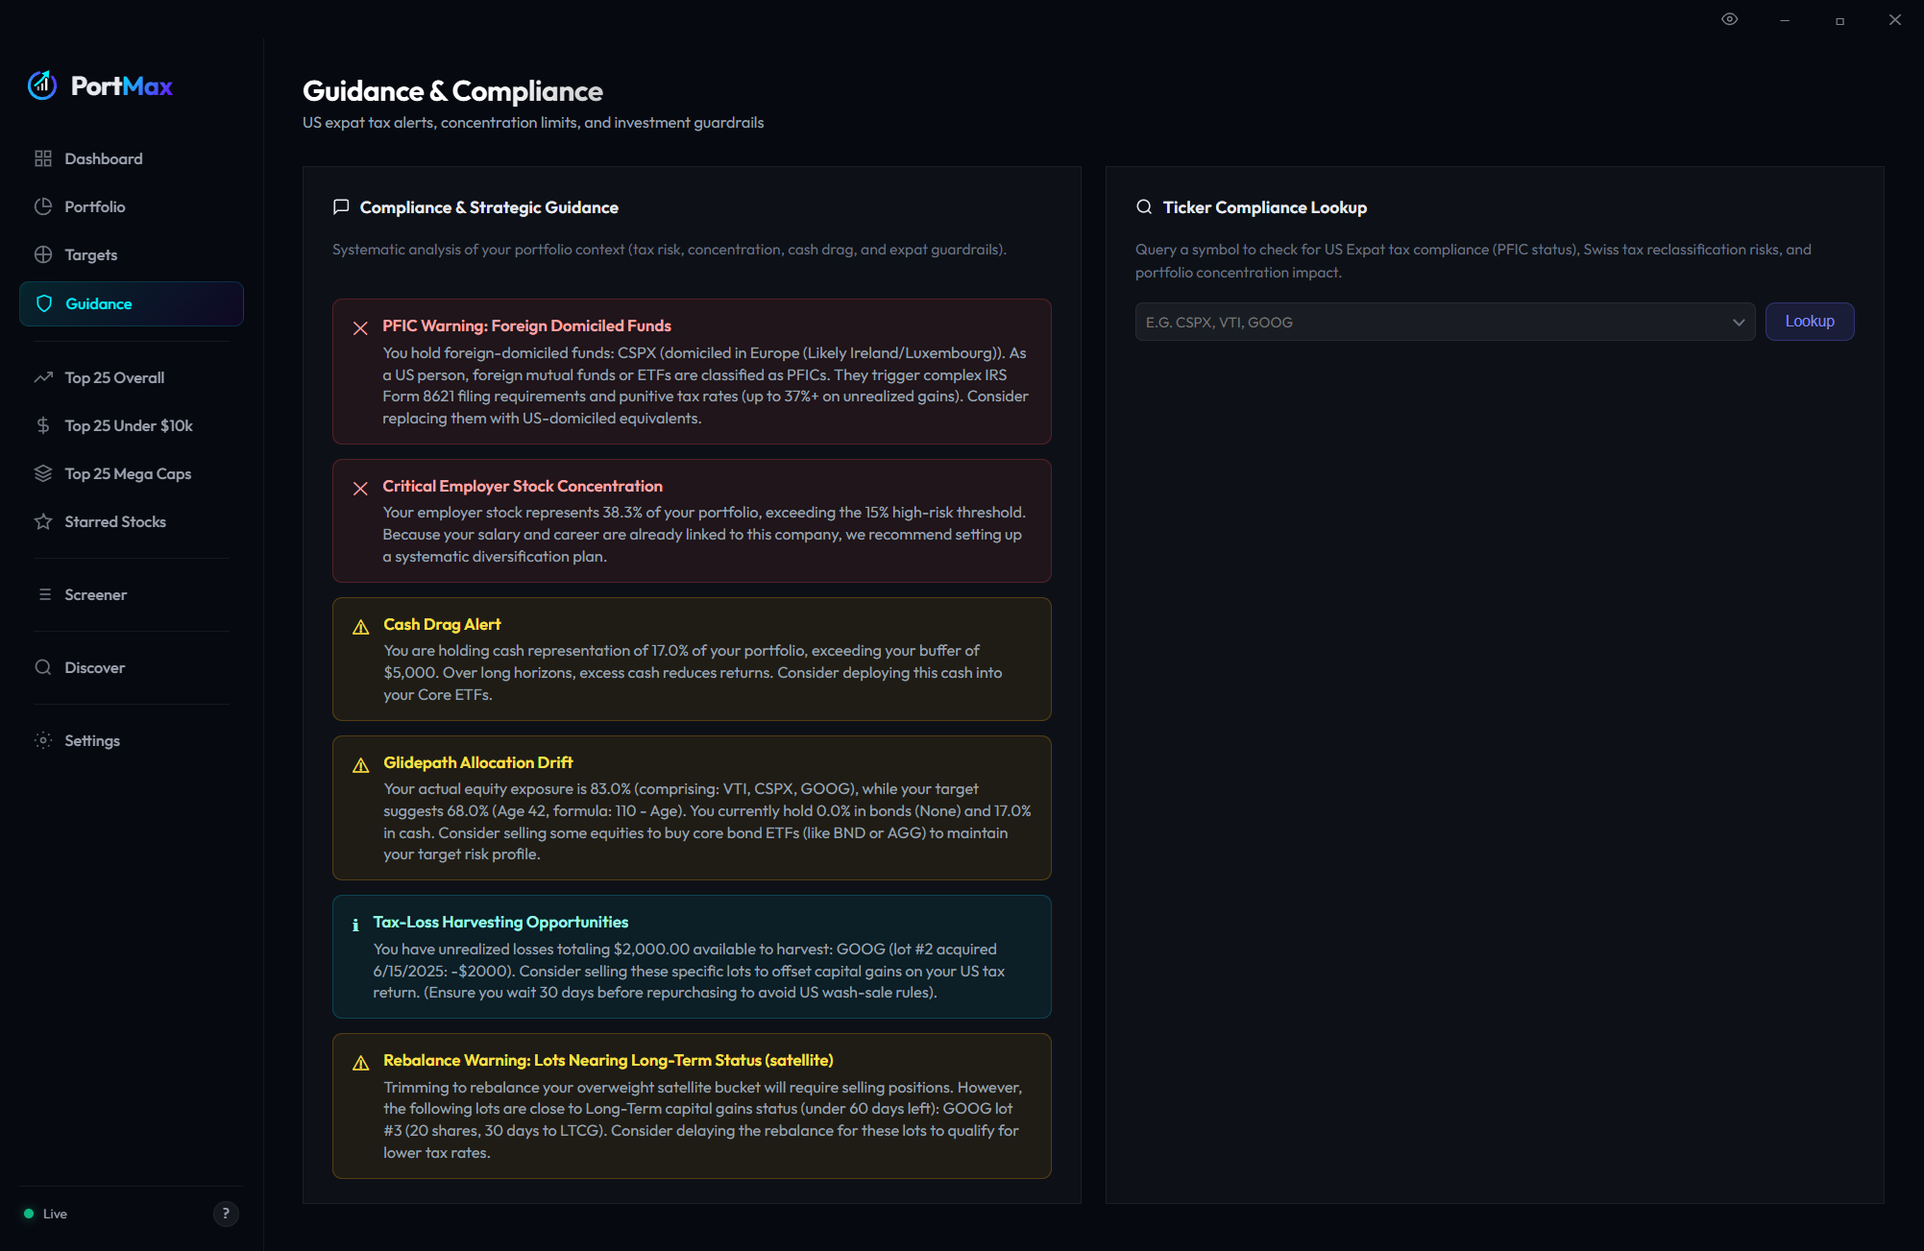
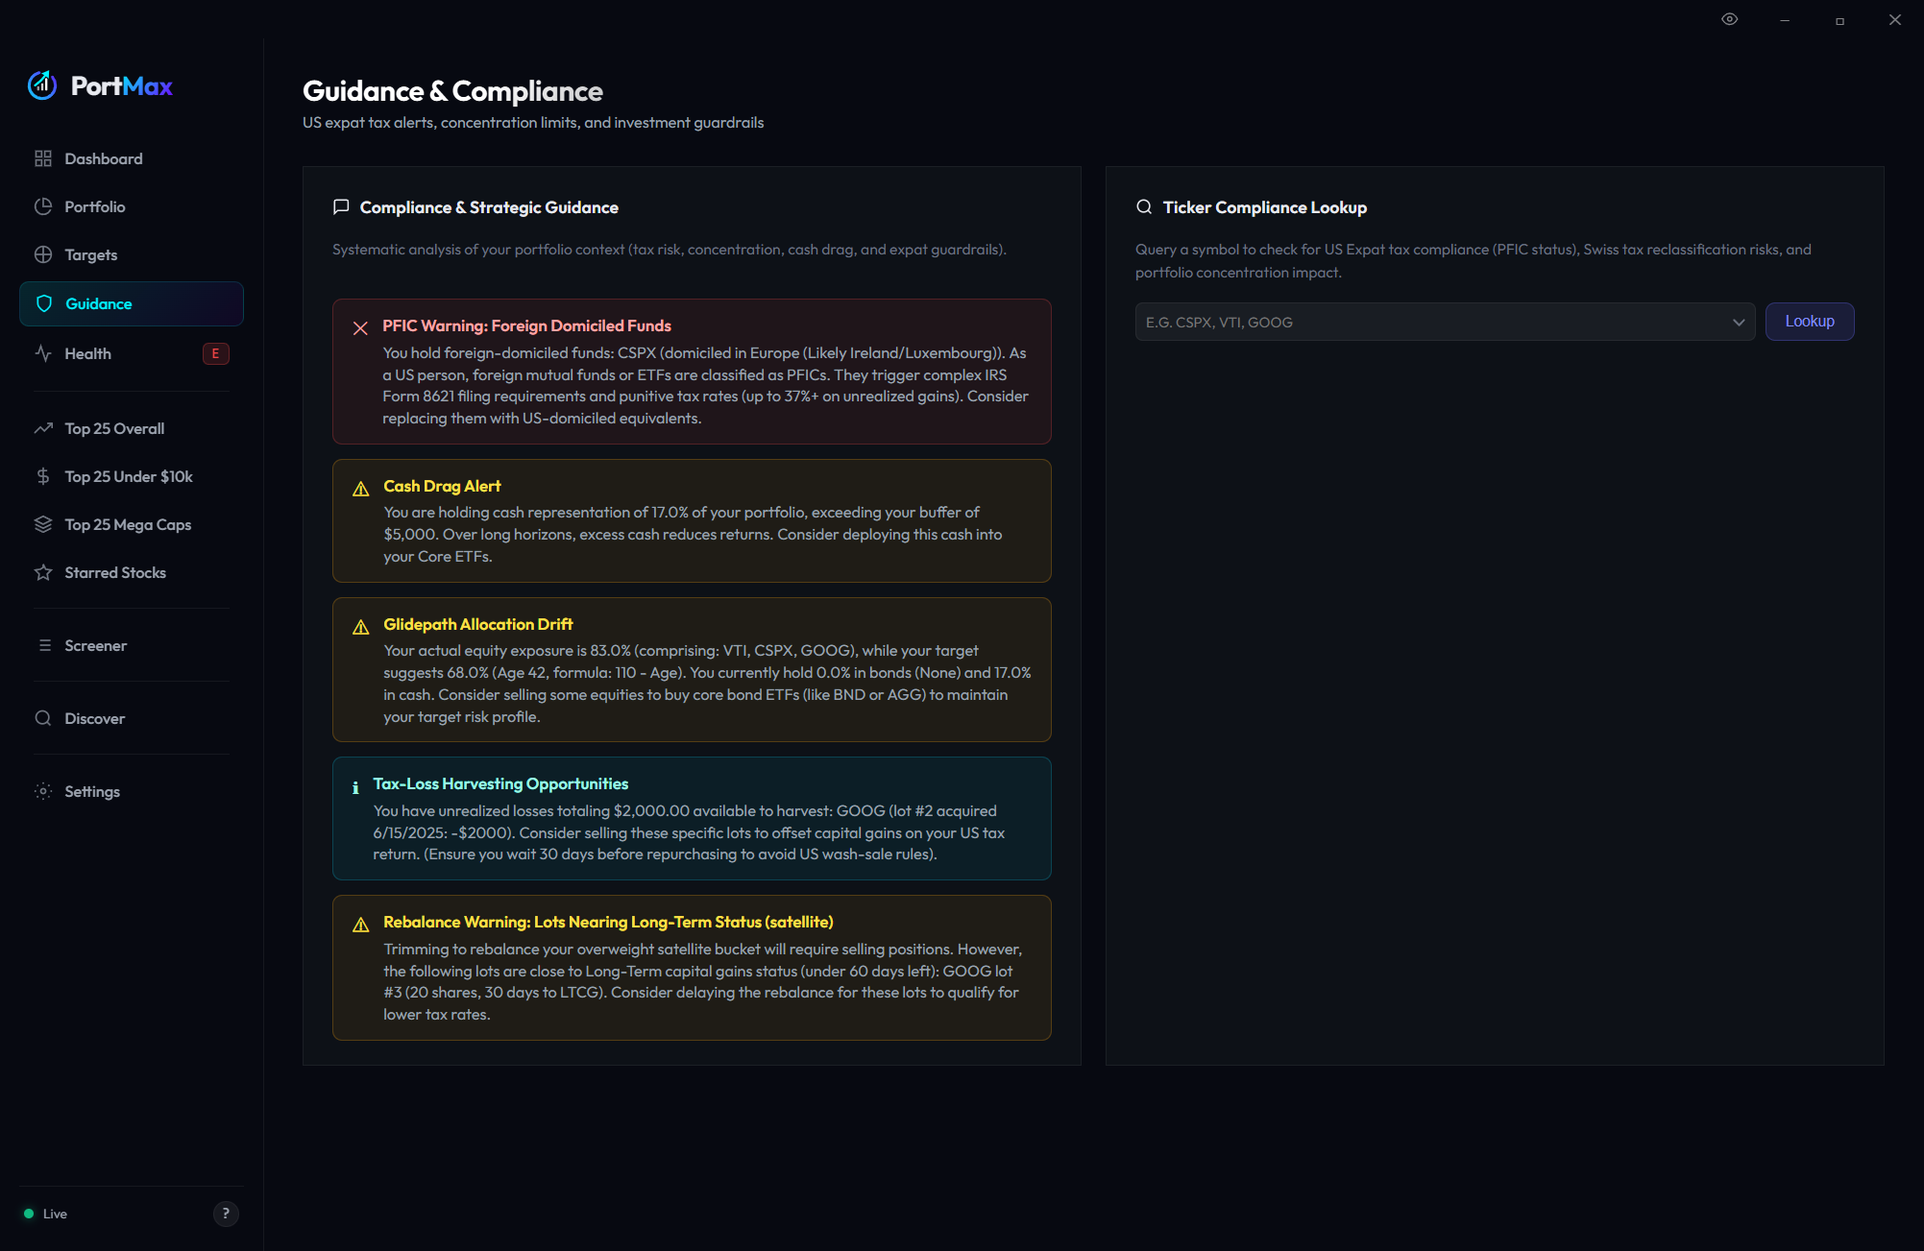
feat(portfolio): centralize employer stock tracking and add roadmap
- Replaces per-holding `isEmployerStock` flags with a global symbol list
- Updates UI to manage employer symbols in settings
- Adds `roadmap.md` to track Phase 1 completion and future plans
- Refactors health and guidance logic to use the new settings

diff --git a/src/app.js b/src/app.js
@@ -1201,6 +1201,7 @@ async function initSettingsUI() {
     setIfEl('settings-birth-year', settings.birthYear ?? 1984);
     setIfEl('settings-glidepath-base', settings.glidepathBase ?? 110);
     setIfEl('settings-cash-drag-threshold', settings.cashDragThreshold ?? 5000);
+    setIfEl('settings-employer-symbols', settings.employerSymbols ?? '');
 
     // Leave screener filter slider to 0 by default as requested
     screenerFilters.minScore = 0;
@@ -1253,15 +1254,20 @@ async function initSettingsUI() {
   }
 
   // Portfolio settings change listeners
-  ['settings-birth-year', 'settings-glidepath-base', 'settings-cash-drag-threshold'].forEach(id => {
+  ['settings-birth-year', 'settings-glidepath-base', 'settings-cash-drag-threshold', 'settings-employer-symbols'].forEach(id => {
     const e = el(id); if (!e) return;
     e.addEventListener('change', async () => {
       const key = {
         'settings-birth-year': 'birthYear',
         'settings-glidepath-base': 'glidepathBase',
         'settings-cash-drag-threshold': 'cashDragThreshold',
+        'settings-employer-symbols': 'employerSymbols',
       }[id];
-      await window.electronAPI.saveSettings({ [key]: parseInt(e.value, 10) });
+      let val = e.value;
+      if (id !== 'settings-employer-symbols') {
+        val = parseInt(e.value, 10);
+      }
+      await window.electronAPI.saveSettings({ [key]: val });
       
       // Trigger portfolio render to update alerts immediately on settings changes
       const p = await window.electronAPI.getPortfolio();
@@ -1620,7 +1626,6 @@ function renderPortfolio(p) {
       <td>${pfSignedPct(r.pnlPct)}</td>
       <td>${r.currency || '—'}</td>
       <td><select class="schedule-select pf-bucket-select" data-idx="${r.idx}">${pfBucketOptions(r.bucket)}</select></td>
-      <td><input type="checkbox" class="pf-employer-check" data-idx="${r.idx}" ${r.isEmployerStock ? 'checked' : ''}></td>
     </tr>`).join('');
 
   el('pf-holdings-tbody').querySelectorAll('.pf-bucket-select').forEach(sel => {
@@ -1628,21 +1633,6 @@ function renderPortfolio(p) {
       const holdings = [...portfolio.holdings];
       holdings[+sel.dataset.idx] = { ...holdings[+sel.dataset.idx], bucket: sel.value === 'unassigned' ? null : sel.value };
       renderPortfolio(await window.electronAPI.savePortfolio({ holdings }));
-    });
-  });
-  el('pf-holdings-tbody').querySelectorAll('.pf-employer-check').forEach(chk => {
-    chk.addEventListener('change', async () => {
-      const holdings = [...portfolio.holdings];
-      const holding = { ...holdings[+chk.dataset.idx], isEmployerStock: chk.checked };
-      holdings[+chk.dataset.idx] = holding;
-      // Keep the durable employerSymbols list in sync so the flag survives re-imports
-      let employerSymbols = [...(portfolio.employerSymbols || [])];
-      if (chk.checked) {
-        if (!employerSymbols.includes(holding.symbol)) employerSymbols.push(holding.symbol);
-      } else {
-        employerSymbols = employerSymbols.filter(s => s !== holding.symbol);
-      }
-      renderPortfolio(await window.electronAPI.savePortfolio({ holdings, employerSymbols }));
     });
   });
 

diff --git a/src/index.html b/src/index.html
@@ -507,7 +507,6 @@
                   <th data-col="pnlPct">P&amp;L %</th>
                   <th data-col="currency">Ccy</th>
                   <th data-col="bucket">Bucket</th>
-                  <th>Employer</th>
                 </tr>
               </thead>
               <tbody id="pf-holdings-tbody"></tbody>
@@ -883,6 +882,12 @@
               <label class="settings-field-label" for="settings-cash-drag-threshold">Cash Drag Buffer ($)</label>
               <input type="number" class="threshold-input" id="settings-cash-drag-threshold" min="0" max="100000" step="500" value="5000" style="width: 80px" />
               <p class="setting-desc" style="margin-top:4px">Fires alert if uninvested cash exceeds this buffer and represents &gt;10% of portfolio.</p>
+            </div>
+
+            <div class="settings-field">
+              <label class="settings-field-label" for="settings-employer-symbols">Employer Stock Tickers</label>
+              <input type="text" class="threshold-input" id="settings-employer-symbols" placeholder="e.g. AAPL, MSFT" style="width: 200px" />
+              <p class="setting-desc" style="margin-top:4px">Comma-separated list of symbols you receive from your employer. Used to compute concentration risk.</p>
             </div>
           </div>
 

diff --git a/test/guidance.test.js b/test/guidance.test.js
@@ -115,18 +115,18 @@ console.log('Running test/guidance.test.js...');
 
   // Employer stock concentration
   holdings = [
-    { symbol: 'VTI', marketValue: 50000, isEmployerStock: false },
-    { symbol: 'GOOG', marketValue: 12000, isEmployerStock: true }
+    { symbol: 'VTI', marketValue: 50000 },
+    { symbol: 'GOOG', marketValue: 12000 }
   ];
-  items = generatePortfolioGuidance(holdings, 0);
+  items = generatePortfolioGuidance(holdings, 0, [], { employerSymbols: 'GOOG' });
   // GOOG weight = 12/62 = 19.3% (>15% => error)
   assert.strictEqual(items.some(i => i.id === 'employer-concentration-hard'), true);
 
   holdings = [
-    { symbol: 'VTI', marketValue: 50000, isEmployerStock: false },
-    { symbol: 'GOOG', marketValue: 7000, isEmployerStock: true }
+    { symbol: 'VTI', marketValue: 50000 },
+    { symbol: 'GOOG', marketValue: 7000 }
   ];
-  items = generatePortfolioGuidance(holdings, 0);
+  items = generatePortfolioGuidance(holdings, 0, [], { employerSymbols: 'GOOG' });
   // GOOG weight = 7/57 = 12.2% (>10% => warning)
   assert.strictEqual(items.some(i => i.id === 'employer-concentration-soft'), true);
 

diff --git a/test/portfolio.test.js b/test/portfolio.test.js
@@ -148,19 +148,19 @@ test('tradeValue restores target (buy positive, sell negative)', () => {
 // ─── employerConcentration ───────────────────────────────────────────────────
 section('employerConcentration');
 
-test('uses isEmployerStock flag', () => {
-  const c = employerConcentration(sample);
+test('matches explicit symbol list case-insensitively', () => {
+  const c = employerConcentration(sample, 0, ['empl']);
   approx(c.pct, 15);
   assert.strictEqual(c.value, 15000);
 });
 
-test('also matches explicit symbol list case-insensitively', () => {
-  const c = employerConcentration(sample, 0, ['asml']);
-  approx(c.pct, 25); // EMPL flag + ASML symbol
+test('handles multiple matched symbols', () => {
+  const c = employerConcentration(sample, 0, ['empl', 'asml']);
+  approx(c.pct, 25);
 });
 
 test('cash dilutes concentration', () => {
-  const c = employerConcentration(sample, 50000);
+  const c = employerConcentration(sample, 50000, ['empl']);
   approx(c.pct, 10);
 });
 

diff --git a/main.js b/main.js
@@ -74,6 +74,7 @@ const DEFAULT_SETTINGS = {
   birthYear: 1984,
   glidepathBase: 110,
   cashDragThreshold: 5000,
+  employerSymbols: '',
 };
 
 function loadSettings() {
@@ -203,6 +204,8 @@ function saveHealthCache(payload) {
 
 // Portfolio plus derived metrics the renderer needs (math stays in lib/portfolio.js).
 function portfolioView(p) {
+  const settings = loadSettings();
+  const employerSyms = (settings.employerSymbols || '').split(',').map(s => s.trim()).filter(Boolean);
   return {
     ...p,
     derived: {
@@ -210,7 +213,7 @@ function portfolioView(p) {
       byHolding:      allocationByHolding(p.holdings, p.cash),
       byBucket:       allocationByBucket(p.holdings, p.cash),
       drift:          computeDrift(p.holdings, p.targets, p.cash, p.tolerancePct),
-      concentration:  employerConcentration(p.holdings, p.cash, p.employerSymbols),
+      concentration:  employerConcentration(p.holdings, p.cash, employerSyms),
       topPositions:   topConcentrations(p.holdings, p.cash, 5),
     },
   };

diff --git a/lib/health.js b/lib/health.js
@@ -48,9 +48,10 @@ function computePortfolioHealth({ holdings = [], cash = 0, targets = [], toleran
   // ── 1. Concentration (35 pts) — largest single-company position ────────────
   let largestStock = { symbol: null, pct: 0 };
   let employerPct = 0;
+  const employerSyms = new Set((settings.employerSymbols || '').toUpperCase().split(',').map(s => s.trim()).filter(Boolean));
   for (const h of holdings) {
     const pct = ((h.marketValue || 0) / total) * 100;
-    if (h.isEmployerStock) employerPct += pct;
+    if (employerSyms.has((h.symbol || '').toUpperCase())) employerPct += pct;
     if (!isFund(h, q(h.symbol)) && pct > largestStock.pct) {
       largestStock = { symbol: h.symbol, pct };
     }

diff --git a/test/health.test.js b/test/health.test.js
@@ -52,12 +52,13 @@ const healthy = {
 // Employer-concentrated portfolio (like a fresh RSU-heavy account)
 const concentrated = {
   holdings: [
-    { symbol: 'EMPL', marketValue: 45000, quantity: 200, isEmployerStock: true },
+    { symbol: 'EMPL', marketValue: 45000, quantity: 200 },
     { symbol: 'VTI', marketValue: 45000, quantity: 150, bucket: 'core' },
   ],
   cash: 10000,
   targets: [],
   quotes: { EMPL: stockQuote('EMPL'), VTI: etfQuote('VTI') },
+  settings: { employerSymbols: 'EMPL' },
 };
 
 // ─── computePortfolioHealth ──────────────────────────────────────────────────

diff --git a/lib/guidance.js b/lib/guidance.js
@@ -183,7 +183,8 @@ function generatePortfolioGuidance(holdings = [], cash = 0, targets = [], settin
     });
   }
 
-  const employerHoldings = holdings.filter(h => h.isEmployerStock);
+  const employerSyms = new Set((settings.employerSymbols || '').toUpperCase().split(',').map(s => s.trim()).filter(Boolean));
+  const employerHoldings = holdings.filter(h => employerSyms.has((h.symbol || '').toUpperCase()));
   const employerVal = employerHoldings.reduce((s, h) => s + (h.marketValue || 0), 0);
   const employerPct = (employerVal / total) * 100;
 

diff --git a/lib/portfolio.js b/lib/portfolio.js
@@ -96,7 +96,7 @@ function employerConcentration(holdings, cash = 0, employerSymbols = []) {
   if (total <= 0) return { value: 0, pct: 0 };
   const syms = new Set((employerSymbols || []).map(s => s.toUpperCase()));
   const value = (holdings || [])
-    .filter(h => h.isEmployerStock || syms.has((h.symbol || '').toUpperCase()))
+    .filter(h => syms.has((h.symbol || '').toUpperCase()))
     .reduce((s, h) => s + (h.marketValue || 0), 0);
   return { value, pct: (value / total) * 100 };
 }

diff --git a/docs/planning/roadmap.md b/docs/planning/roadmap.md
@@ -1,0 +1,54 @@
+# Roadmap & Status
+
+Living document — the single place to check what's built, in flight, and next.
+Update when a phase lands or priorities change. (Last updated: 2026-07-16.)
+
+## Done
+
+### Phase 1 — Portfolio foundation
+- [x] `lib/portfolio.js` — pure math: allocation, drift vs. targets, concentration, glidepath, CSV parsing (unit-tested)
+- [x] IBKR **Activity Statement** parser: section-aware, per-lot data, FX conversion via the statement's own rates, cash from Cash Report, base-currency detection
+- [x] Portfolio view: sortable holdings table (market value, weight, cost basis, P&L, currency, bucket, employer), cash as its own card, IBKR CSV import (annotations survive re-imports)
+- [x] Targets view: bucket targets, tolerance, age-indexed recommendation, auto-assign buckets, drift table with dollar-specific trades
+- [x] Guidance view: PFIC warnings (quote-backed with currency-validated classification), employer concentration alerts, cash drag, glidepath drift, Swiss professional-trader risk, lot-aware tax-loss harvesting and rebalance/LTCG warnings, ticker compliance lookup
+- [x] `lib/health.js` — 100-point Portfolio Health grade (concentration 35 / diversification 25 / drift 15 / tax hygiene 15 / cash deployment 10) with grade caps (employer >25% ⇒ ≤C; PFIC present ⇒ ≤B), plain-English action per dimension
+- [x] Health as a standalone page with inline grade badge in the sidebar
+- [x] Health caching: SHA-1 fingerprint over score inputs + 24h TTL; recomputes only when the portfolio actually changes (`get-portfolio-health`, `force` option available)
+- [x] Live price refresh: quantity × Yahoo quote, currency-guarded (mismatched exchange listings keep imported values), FX via `=X` pairs
+- [x] Dividend income projection (trailing rates × quantity)
+- [x] Privacy mode, employer symbols as durable store (`employerSymbols` survives imports)
+
+## Outstanding — small items
+
+- [ ] **Health page self-sufficiency** — Health currently populates only after the Portfolio view has run once per session; it should call `get-portfolio-health` on its own init so landing on it cold works
+- [ ] **Index-implied employer exposure** — count the employer's weight inside held index funds (QQQ/VOX) toward the concentration figure (needs fund-holdings data; Yahoo doesn't provide it directly)
+- [ ] **Cost-drag health dimension** — weighted expense ratios via `quoteSummary`/`fundProfile`; deferred from the health scorer v1
+- [ ] **Metric-card overflow** — long values (e.g. `$1,854,155.22`) clip in the Total Value card
+
+## Outstanding — major phases
+
+### Phase 2 — IBKR live sync (`lib/ibkr.js`)
+Replace manual CSV import with the Client Portal Web API (local gateway
+process, daily browser re-login). Plan in [`ibkr-integration.md`](ibkr-integration.md).
+- [ ] Gateway process lifecycle (configure path/port, start/monitor, session status surfaced in UI)
+- [ ] Positions/balances sync mapped into the existing `portfolio.json` shape (same fingerprint invalidation applies automatically)
+- [ ] Fallbacks per the plan: Flex Query for daily position-of-record, CSV import stays as manual backstop
+
+### Phase 3 — Background mode & notifications
+Plan in [`architecture.md`](architecture.md) §1–2, §6; signal catalog in [`signals.md`](signals.md).
+- [ ] System tray + keep-alive on window close (opt-in setting)
+- [ ] Signal scheduler (hourly-to-daily): sync → recompute health/guidance → notify
+- [ ] Native notifications with dedup (`signals.json` state log; fire on threshold *transitions* or a daily digest, not every poll)
+- [ ] Notify on health **grade change** specifically
+
+### Phase 4 — Plan-tracking features (turn advice into schedules)
+- [ ] **Systematic employer-stock sell-down plan** — user sets a quarterly sell % and target weight; app tracks progress against the schedule and reminds. The single highest-impact feature given a >40% employer concentration
+- [ ] **RSU vest log + reminders** — log vest dates/share counts (stock-plan broker has no public API; manual entry), remind at vest to sell/transfer, re-check concentration after
+- [ ] **PFIC remediation checklist** — track replacement of flagged foreign-domiciled funds with US-domiciled equivalents
+
+## Decisions still open (need user input)
+
+- Phase order: 2 (live sync) vs. 3 (background/notifications) vs. 4 (sell-down plan) first
+- Notification granularity: per-signal immediate vs. daily digest
+- Gateway workflow acceptance: background Java process + ~daily browser re-login
+- Bond/fixed-income introduction timing (glidepath currently reports drift only)

diff --git a/docs/planning/README.md b/docs/planning/README.md
@@ -9,14 +9,17 @@ The module is designed around a **target persona** described in
 stock, investing through IBKR, and planning to retire on those investments.
 Adjust the persona file to your own facts and the rest of the docs follow.
 
-**No code has been changed yet.** These are planning documents only, written so
-context persists across sessions. Read in this order:
+**Status:** Phase 1 is implemented (Portfolio/Targets/Guidance/Health views,
+Activity Statement import with FX, health grading with caching, live prices,
+compliance guidance). See [`roadmap.md`](roadmap.md) for what's done, what's
+outstanding, and the open decisions. Read in this order:
 
-1. [`situation.md`](situation.md) — the target persona: financial situation, goals, and constraints.
-2. [`strategy.md`](strategy.md) — investment approach: why stocks/ETFs over active options trading for this persona, the tax angle, employer-stock concentration risk, retirement glidepath.
-3. [`ibkr-integration.md`](ibkr-integration.md) — technical plan for connecting to IBKR via the Client Portal Web API.
-4. [`architecture.md`](architecture.md) — how this bolts onto the existing Electron app (system tray, background checks, notifications, new data model), without disturbing the existing CSP scanner.
-5. [`signals.md`](signals.md) — the catalog of concrete buy/sell/rebalance signals the app should be able to generate for a long-term stock/ETF portfolio.
+1. [`roadmap.md`](roadmap.md) — **current status**: done / outstanding / next-phase decisions.
+2. [`situation.md`](situation.md) — the target persona: financial situation, goals, and constraints.
+3. [`strategy.md`](strategy.md) — investment approach: why stocks/ETFs over active options trading for this persona, the tax angle, employer-stock concentration risk, retirement glidepath.
+4. [`ibkr-integration.md`](ibkr-integration.md) — technical plan for connecting to IBKR via the Client Portal Web API (Phase 2).
+5. [`architecture.md`](architecture.md) — how this bolts onto the existing Electron app (system tray, background checks, notifications, new data model), without disturbing the existing CSP scanner.
+6. [`signals.md`](signals.md) — the catalog of concrete buy/sell/rebalance signals the app should be able to generate for a long-term stock/ETF portfolio.
 
 ## Decisions made so far
 
@@ -27,11 +30,13 @@ context persists across sessions. Read in this order:
 | Background operation | **System tray + native OS notifications** | App keeps running when the window is closed; fires a notification when a signal triggers; the window is opened only when detail is wanted |
 | Primary strategy focus | **Stocks/ETFs, buy-and-hold, long horizon** — not active options trading | See [`strategy.md`](strategy.md) for the tax and concentration reasoning |
 
-## Open questions (to resolve before implementation starts)
+## Open questions
 
-See the bottom of each doc for section-specific open questions. The big ones:
+Most of the original open questions have been resolved in implementation:
 
-- Should the IBKR module be **read-only** (recommended — sync + signals only, all trades placed manually at the broker), or eventually explore semi-automated order placement?
-- What should count as "too concentrated" in employer stock before the app alerts (e.g., >10% / >15% / >20% of net worth)?
-- Should the stock-plan account (where employer grants vest) be synced too, or is manually logging vest events into the app good enough?
-- Target retirement asset allocation glidepath — define target % equities/bonds by age, or start equities-only?
+- IBKR module is **read-only** — all views present suggestions as informational; trades are placed manually at the broker.
+- Employer-stock concentration thresholds: warning >10%, critical alert >15%, health-grade cap at >25% (configurable ambitions can come later).
+- Stock-plan account (employer grants) stays **manual-entry** — no public API exists; a vest log is planned (Phase 4 in [`roadmap.md`](roadmap.md)).
+- Glidepath: age-indexed equity target (`base − age`, default base 110) implemented; bonds are reported as drift, not yet held.
+
+Remaining decisions live in the "Decisions still open" section of [`roadmap.md`](roadmap.md).
